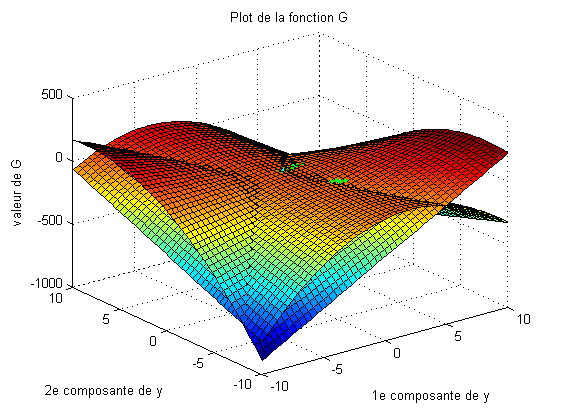
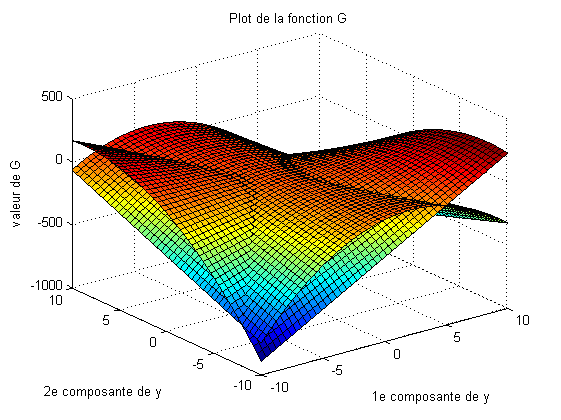
...

diff --git a/devoir3/TestNewton.m b/devoir3/TestNewton.m
@@ -29,16 +29,10 @@ end
 figure(1)
 surf(X, Y, G1); hold on;
 surf(X , Y, G2); hold on;
-for i=1:n
-    for j=1:n
-        if (abs(G1(i,j))<5 && abs(G2(i,j))<5)
-            plot3(X(i),Y(j),0,'g.');hold on;
-        end
-    end
-end
-plot3(1.4337,-3.309,0,'c.');hold on;
-plot3(-0.2264,0.3972,0,'c.');hold on;
-plot3(0.706,0.5621,0,'c.');hold on;
+
+plot3(1.4337,-3.309,10,'c.', 'MarkerSize',10);hold on;
+plot3(-0.2264,0.3972,10,'c.', 'MarkerSize',10);hold on;
+plot3(0.706,0.5621,10,'c.', 'MarkerSize',10);hold on;
 title('Plot de la fonction G');
 xlabel('1e composante de y');
 ylabel('2e composante de y');

diff --git a/devoir3/test.m b/devoir3/test.m
@@ -1,0 +1,21 @@
+A=[2 4 6; 4 2 1; 6 1 2];
+x=[1 1 0]';
+[a b]=eig(A)
+n=100;
+t=linspace(-10,10,n);
+rho=zeros(n,1);
+essai=zeros(n,1);
+
+for i=1:n
+    x(3)=(-14-sqrt(196-4*(12-2*t(i))*(2-t(i))))/(2*(2-t(i)));
+    essai(i)= (x'*A*x)/(x'*x);
+    [rho(i,1)] = RQIS(A,x);
+    
+end
+rho
+essai
+t(i)
+x(3)=(-14+sqrt(196-4*(12-2*3)*(2-3)))/(2*(2-3));
+x
+    pttt= (x'*A*x)/(x'*x)
+plot(rho); hold on;
